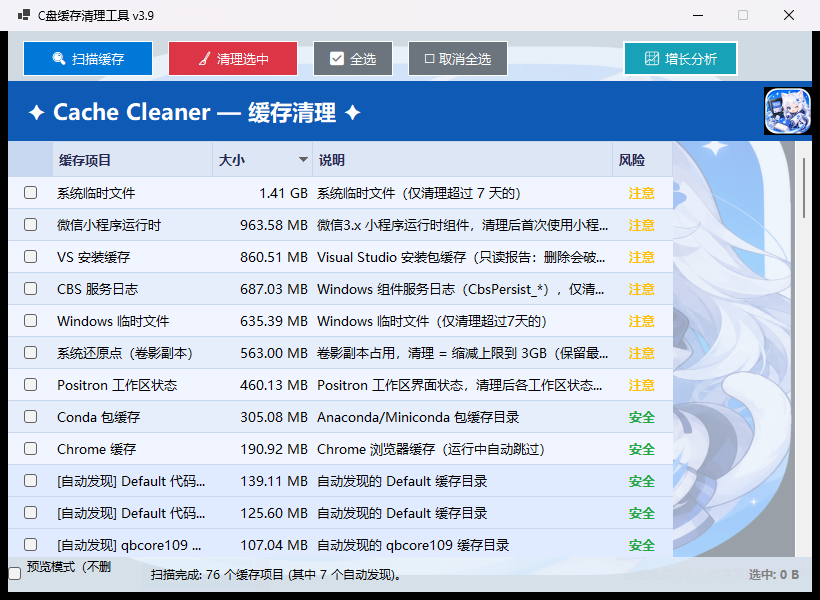
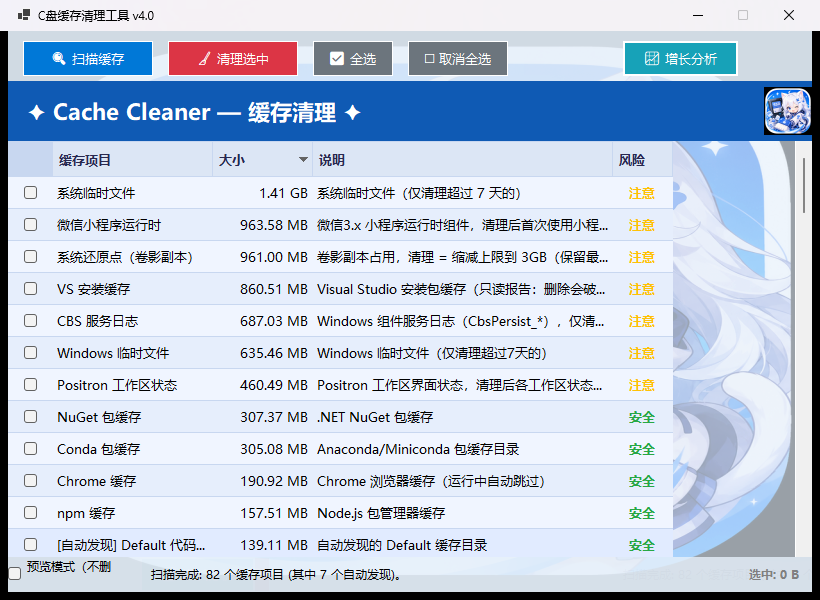
docs(readme): 同步 v4.0——一句话介绍/自定义规则示例补 command 字段/字段速查/项目结构/真实截图更新

diff --git a/README.md b/README.md
@@ -17,7 +17,7 @@
 
 ## ✨ 一句话介绍
 
-双击即用的系统缓存清理器：**两阶段扫描**找到缓存，**三级风险标注**守住安全线，**预览模式**先看后删，**审计日志**让每一 MB 有据可查，**JSON 规则引擎**让覆盖面可以无限扩展——所有这些都装在一个 118 MB 的自包含 exe 里。
+双击即用的系统缓存清理器：**两阶段扫描**找到缓存，**三级风险标注**守住安全线，**预览模式**先看后删，**审计日志**让每一 MB 有据可查，**JSON 规则引擎**让覆盖面无限扩展，**Agent 规则包**直面 AI 时代开发者磁盘膨胀（会话转录、模型仓库、自更新堆积）——所有这些都装在一个 118 MB 的自包含 exe 里。
 
 ## 🎯 核心能力
 
@@ -68,12 +68,23 @@
     "risk": "warn",
     "clean": "files",
     "filesPatterns": ["*.log"],
-    "minAgeDays": 30
+    "minAgeDays": 30,
+    "recursive": true
+  },
+  {
+    "name": "Go 模块缓存",
+    "base": "userProfile",
+    "path": "go\\pkg\\mod",
+    "desc": "官方命令清理，按目标目录前后差值计释放",
+    "risk": "safe",
+    "clean": "command",
+    "command": "go clean -modcache",
+    "commandTimeoutMs": 600000
   }
 ]
 ```
 
-字段速查：`base`（`localAppData` / `appData` / `userProfile` / `windows` / `programData` / `driveRoot`）· `risk`（`safe` / `warn` / `danger`）· `kind`（`path` / `file` / `special`）· `clean`（`directory` / `files` / `reportOnly`）· `filesPatterns` · `minAgeDays` · `skipSize` · `guardProcesses`。
+字段速查：`base`（`localAppData` / `appData` / `userProfile` / `windows` / `programData` / `driveRoot`）· `risk`（`safe` / `warn` / `danger`）· `kind`（`path` / `file` / `special`）· `clean`（`directory` / `files` / `command` / `reportOnly`）· `filesPatterns` · `minAgeDays` · `recursive` · `skipSize` · `guardProcesses` · `command` + `commandTimeoutMs`（`clean: "command"` 时的官方清理命令与超时）。
 
 ### 增长基线监控
 
@@ -120,13 +131,14 @@ ISCC setup.iss
 ```
 ├── CacheScanner.cs      # 扫描/清理核心（规则引擎消费端、进程守卫、命令式清理框架）
 ├── CleaningRules.cs     # JSON 规则加载器（内嵌默认 + 侧车覆盖）
-├── rules.default.json   # 内嵌声明式规则（64 条）
+├── rules.default.json   # 内嵌声明式规则（75 条）
 ├── CleanLog.cs          # 清理审计日志
-├── GrowthDialog.cs      # 增长分析页
+├── GrowthDialog.cs      # 增长分析页（含迁盘顾问）
 ├── AppSettings.cs       # 设置持久化
 ├── MainForm.cs          # 主界面
+├── LICENSE              # MIT
 ├── cleanup/             # 增长基线监控脚本等辅助工具
-└── docs/upgrade-plan.md # 设计与演进记录
+└── docs/                # 设计演进记录 + Agent 时代专项调研报告
 ```
 
 ## 📸 截图
